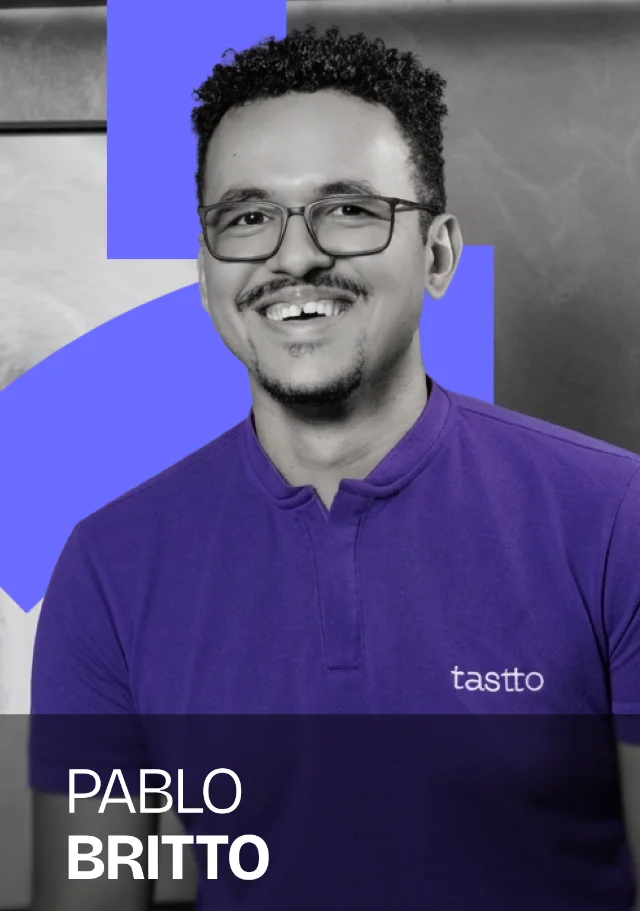
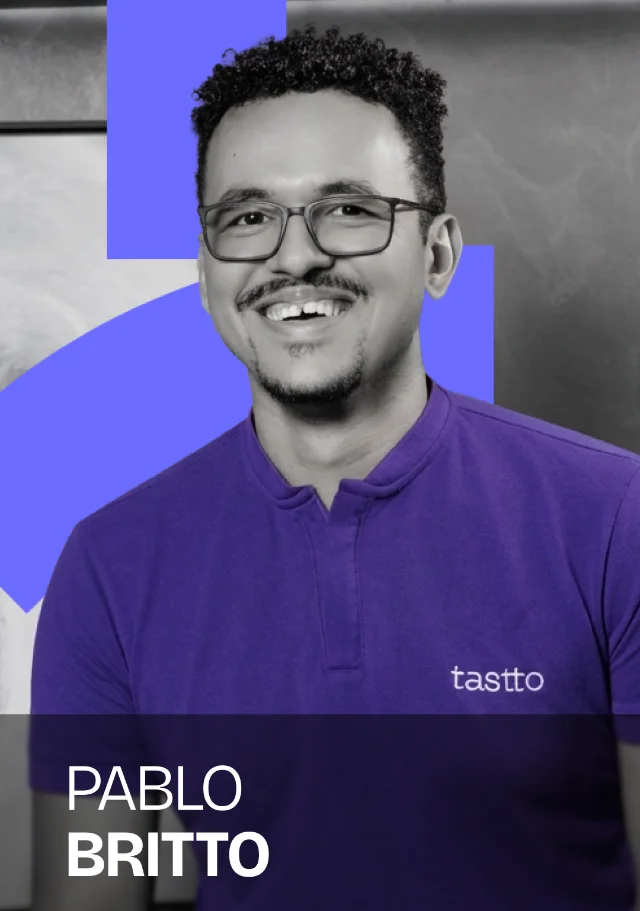
Atualiza site: novos cards da equipe

Changed region(s): [[0.0938, 0.8299, 0.4062, 0.9835]]

diff --git a/index.html b/index.html
@@ -204,11 +204,11 @@
     </div>
     <ul class="equipe-trilho">
         <li class="equipe-card"><img src="assets/equipe-thiago-barretto.webp" alt="Thiago Barretto, da equipe Tastto" loading="lazy"></li>
-        <li class="equipe-card"><img src="assets/equipe-mateus-araujo.webp" alt="Mateus Araújo, da equipe Tastto" loading="lazy"></li>
+        <li class="equipe-card"><img src="assets/equipe-luis-fellipe.webp" alt="Luis Fellipe, da equipe Tastto" loading="lazy"></li>
         <li class="equipe-card"><img src="assets/equipe-pablo-britto.webp" alt="Pablo Britto, da equipe Tastto" loading="lazy"></li>
-        <li class="equipe-card" aria-hidden="true"><img src="assets/equipe-thiago-barretto.webp" alt="" loading="lazy"></li>
-        <li class="equipe-card" aria-hidden="true"><img src="assets/equipe-mateus-araujo.webp" alt="" loading="lazy"></li>
-        <li class="equipe-card" aria-hidden="true"><img src="assets/equipe-pablo-britto.webp" alt="" loading="lazy"></li>
+        <li class="equipe-card"><img src="assets/equipe-pedro-italo.webp" alt="Pedro Ítalo, da equipe Tastto" loading="lazy"></li>
+        <li class="equipe-card"><img src="assets/equipe-andriele-silva.webp" alt="Andriele Silva, da equipe Tastto" loading="lazy"></li>
+        <li class="equipe-card"><img src="assets/equipe-brunno-fernandes.webp" alt="Brunno Fernandes, da equipe Tastto" loading="lazy"></li>
     </ul>
   </section>
 
